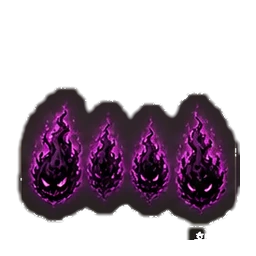
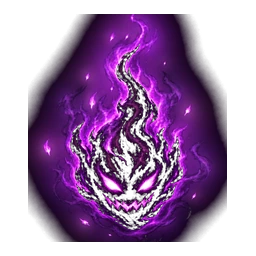
fix: [ART-POLISH-01 귀화 단일 개체] - gwihwa.webp 한 마리 파일로 교체, 귀화 전용 확대·위치 보정 제거(contain), 테두리·표식·HP·fallback·preload 그대로
Claude-Session: https://claude.ai/code/session_01EmF9GJCvFbzTipZNHHLaCs

diff --git a/joseon-exorcist/index.html b/joseon-exorcist/index.html
@@ -4209,7 +4209,7 @@ var Core = (function () {
     gwangun: { battle: 'assets/npcs/soldier_battle.webp' },
     official: { battle: 'assets/npcs/official_battle.webp' },
     runner: { battle: 'assets/enemies/ledger_runner.webp' },
-    gwihwa: { battle: 'assets/enemies/gwihwa.webp', crop: [24, 62, 2.1] } // 파일에 불꽃 4개가 나란히 — 맨 앞 하나만 보이게
+    gwihwa: { battle: 'assets/enemies/gwihwa.webp', crop: [50, 50, 1] } // ART-POLISH-01: 한 마리 파일 — 보정 없이 contain (얼굴이 아래쪽이라 확대하면 HP 막대에 가린다)
   };
   var artFailed = {};
   function artFor(u, kind) {

diff --git a/joseon-exorcist/QA-ART-PHASE-A-01.md b/joseon-exorcist/QA-ART-PHASE-A-01.md
@@ -37,3 +37,11 @@
 - 초상: 얼굴 중심으로 옮겨 1.9배 확대 (인물마다 중심값)
 - 귀화: 파일에 불꽃 4개가 나란히 있어 맨 앞 불꽃만 보이게 2.1배 확대 — ART_REVIEW_REQUIRED
 - 그림 뒤 바탕만 옅게 (적대 인간 적갈 .38 → .2, 아군 남청 .55 → .4). 테두리 색은 그대로
+
+## ART-POLISH-01 — 귀화 한 마리 파일로 교체 (2026-09-27)
+- `assets/enemies/gwihwa.webp` 를 새 파일(한 마리, 256×256)로 교체. 귀화 전용 확대·위치 보정 제거 → `contain`, 확대 없음 (보통 토큰의 1.42배 확대도 쓰지 않음 — 얼굴이 그림 아래쪽이라 확대하면 HP 막대에 가린다)
+- 자주 동그라미 테두리 · 불꽃 표식 · HP 막대 · 미리 불러오기 · 이모지 fallback 그대로. 다른 7종 토큰·초상·규칙 변경 없음
+- 확인: `node --test` 343 통과 / 5장 아트 PASS 21 (새 확인 2개: 두 귀화가 다른 칸에 한 개씩 · 눈·입이 HP 막대 위) / 1~4장 smoke PASS 28
+- 캡처: `qa-shots/art-polish-01/1-gwihwa-appear.png` · `2-runner-and-gwihwa.png` — 옆 불꽃 잔상 없음
+- 참고: 입과 HP 막대 사이 여유가 약 1px (360px 기준). 가려지지는 않지만 넉넉하지 않다
+

diff --git a/joseon-exorcist/PROGRESS.md b/joseon-exorcist/PROGRESS.md
@@ -208,7 +208,7 @@
   - 5장 진입 때 12개 미리 불러오기. 실패하면 이모지로 (게임 진행 그대로)
   - SVG 아이콘 8개는 복사만 — 지시서에 쓸 곳이 없어 기존 표식(UI-PHASE-A)을 그대로 둠
   - 확인: 343 통과 / 5장 아트 19 PASS / 5장 UI 28 · 흐름 34 PASS / 1~4장 28 PASS (아트 미적용 확인) — QA-ART-PHASE-A-01.md
-  - ART_REVIEW_REQUIRED: 귀화 파일에 불꽃 4개 (CSS 로 하나만 보이게 함)
+  - ~~ART_REVIEW_REQUIRED: 귀화 파일에 불꽃 4개~~ → ART-POLISH-01 에서 한 마리 파일로 교체, 귀화 전용 보정 제거 (343 통과 · 5장 아트 21 PASS · 1~4장 28 PASS)
   - **push 안 함 · 미배포**. 커밋 1개
 
 ## 다음에 진행할 작업

diff --git a/joseon-exorcist/TASKS.md b/joseon-exorcist/TASKS.md
@@ -191,5 +191,6 @@
 ## [ART-PHASE-A-01 5장 실제 아트] (Issue #24)
 - [x] assets 복사 · 5장 지도 토큰 8종 · 행동 중 초상 4명 · 미리 불러오기 · 이모지 fallback
 - [x] 자동 테스트 · 5장 360×740 필수 캡처 10장 · 1~4장 아트 미적용 확인
-- [ ] 기획자 확인 (Game Director 검수) · 귀화 그림 파일 확인 (ART_REVIEW_REQUIRED)
+- [x] ART-POLISH-01 귀화 한 마리 파일 교체 · 전용 보정 제거
+- [ ] 기획자 확인 (Game Director 검수)
 
